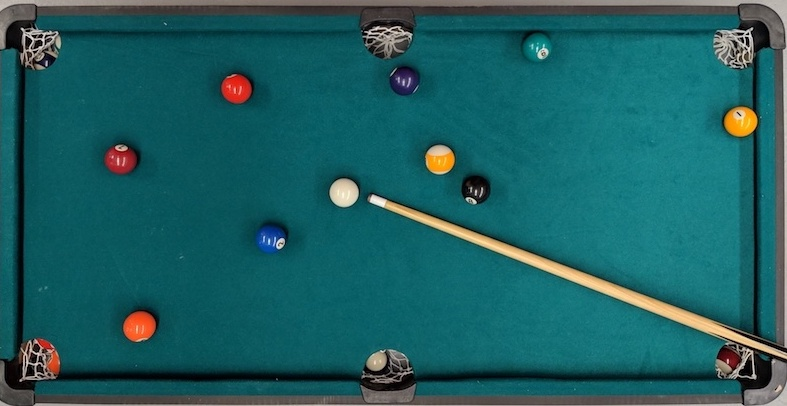
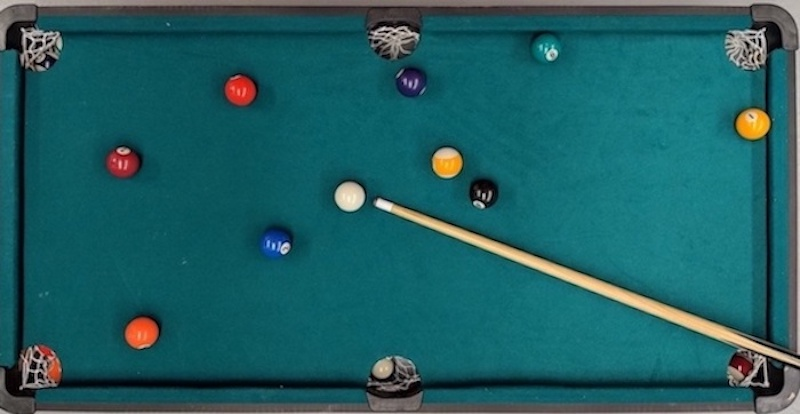
adjusted cue stick values

diff --git a/contourDemo.py b/contourDemo.py
@@ -1,0 +1,88 @@
+
+    
+from __future__ import print_function
+import cv2 as cv
+import numpy as np
+import argparse
+import random as rng
+
+rng.seed(12345)
+
+def thresh_callback(val):
+    threshold = val
+
+    ## [Canny]
+    # Detect edges using Canny
+    canny_output = cv.Canny(src_gray, threshold, threshold * 2)
+    ## [Canny]
+
+    ## [findContours]
+    # Find contours
+    _, contours = cv.findContours(canny_output, cv.RETR_TREE, cv.CHAIN_APPROX_SIMPLE)
+    ## [findContours]
+    # print(contours)
+
+    ## [allthework]
+    # Approximate contours to polygons + get bounding rects and circles
+    contours_poly = [None]*len(contours)
+    boundRect = [None]*len(contours)
+    centers = [None]*len(contours)
+    radius = [None]*len(contours)
+    for i in range(len(contours[0])):
+        c = contours[0][i]
+    # for i, c in enumerate(contours):
+        print(str(i) + " " + str(c))
+        contours_poly[i] = cv.approxPolyDP(c, 3, True)
+        boundRect[i] = cv.boundingRect(contours_poly[i])
+        centers[i], radius[i] = cv.minEnclosingCircle(contours_poly[i])
+    ## [allthework]
+
+    ## [zeroMat]
+    drawing = np.zeros((canny_output.shape[0], canny_output.shape[1], 3), dtype=np.uint8)
+    ## [zeroMat]
+
+    ## [forContour]
+    # Draw polygonal contour + bonding rects + circles
+    for i in range(len(contours)):
+        color = (rng.randint(0,256), rng.randint(0,256), rng.randint(0,256))
+        cv.drawContours(drawing, contours_poly, i, color)
+        cv.rectangle(drawing, (int(boundRect[i][0]), int(boundRect[i][1])), \
+          (int(boundRect[i][0]+boundRect[i][2]), int(boundRect[i][1]+boundRect[i][3])), color, 2)
+        cv.circle(drawing, (int(centers[i][0]), int(centers[i][1])), int(radius[i]), color, 2)
+    ## [forContour]
+
+    ## [showDrawings]
+    # Show in a window
+    cv.imshow('Contours', drawing)
+    ## [showDrawings]
+
+## [setup]
+# Load source image
+parser = argparse.ArgumentParser(description='Code for Creating Bounding boxes and circles for contours tutorial.')
+parser.add_argument('--input', help='Path to input image.', default='pool.jpg')
+args = parser.parse_args()
+
+src = cv.imread(cv.samples.findFile(args.input))
+if src is None:
+    print('Could not open or find the image:', args.input)
+    exit(0)
+
+# Convert image to gray and blur it
+src_gray = cv.cvtColor(src, cv.COLOR_BGR2GRAY)
+src_gray = cv.blur(src_gray, (3,3))
+## [setup]
+
+## [createWindow]
+# Create Window
+source_window = 'Source'
+cv.namedWindow(source_window)
+cv.imshow(source_window, src)
+## [createWindow]
+## [trackbar]
+max_thresh = 255
+thresh = 100 # initial threshold
+cv.createTrackbar('Canny thresh:', source_window, thresh, max_thresh, thresh_callback)
+thresh_callback(thresh)
+## [trackbar]
+
+cv.waitKey()

diff --git a/test.py b/test.py
@@ -95,7 +95,7 @@ def add_ball(ball, hsv, frame):
             ((x, y), radius) = cv2.minEnclosingCircle(c)
      
             # only proceed if the radius meets a minimum size
-            if radius > 12 and radius < 17:
+            if radius > 13 and radius < 17:
                 print("rad: " + str(radius))
                 #print(ball.str_rep + " rad: " + str(radius) + " contourArea: " +
                 #str(cv2.contourArea(c)))
@@ -110,8 +110,8 @@ def add_ball(ball, hsv, frame):
 
 
 def add_cuestick(hsv, frame):
-    cue_lower = np.array([16,10,125])
-    cue_upper = np.array([19,128,255])
+    cue_lower = np.array([14,10,200])
+    cue_upper = np.array([18,128,255])
 
 
     mask = cv2.inRange(hsv, cue_lower, cue_upper)
@@ -124,9 +124,8 @@ def add_cuestick(hsv, frame):
         cv2.CHAIN_APPROX_SIMPLE)
     cnts = imutils.grab_contours(cnts)
     for cnt in cnts:
-
-        if (cv2.contourArea(cnt) > 500):
-            #print(cv2.contourArea(cnt))
+        contourArea = cv2.contourArea(cnt)
+        if (1000 < contourArea):
             rows,cols = hsv.shape[:2]
             [vx,vy,x,y] = cv2.fitLine(cnt, cv2.DIST_L2,0,0.01,0.01)
             lefty = int((-x*vy/vx) + y)
@@ -138,26 +137,35 @@ def add_cuestick(hsv, frame):
 
 def run_simul():
     balls = init_ballinfo()
-    filename = "pool.jpg"
-    # Take each frame
-    first_time = datetime.utcnow()
-    frame = cv2.imread(filename)
+    # cap = cv2.VideoCapture(1)
+    running = True
+    while running:
+       # ret, frame = cap.read()
 
-    # Convert BGR to HSV
-    hsv = cv2.cvtColor(frame, cv2.COLOR_BGR2HSV)
-    balls = init_ballinfo()
-    for ball in balls:
-        add_ball(ball, hsv, frame)
-    add_cuestick(hsv, frame)
-    end_time = datetime.utcnow()
-    cv2.imshow('frame', frame)
+         filename = "pool2.jpg"
+         # Take each frame
+         frame = cv2.imread(filename)
 
-    while(1):
-        k = cv2.waitKey(5) & 0xFF
-        if k == 27:
-            break
+        # Convert BGR to HSV
+         hsv = cv2.cvtColor(frame, cv2.COLOR_BGR2HSV)
+         balls = init_ballinfo()
+         # for ball in balls:
+         #     add_ball(ball, hsv, frame)
+         add_cuestick(hsv, frame)
+         cv2.imshow('frame', frame)
+        # input
 
+         # if cv2.waitKey(1) & 0xFF == ord('q'):
+         #     break
 
-    # cv2.destroyAllWindows()
+         while(1):
+             k = cv2.waitKey(5) & 0xFF
+             if k == 27:
+                running = False
+                break
+
+    # When everything done, release the capture
+    # cap.release()
+    cv2.destroyAllWindows()
 
 run_simul()
